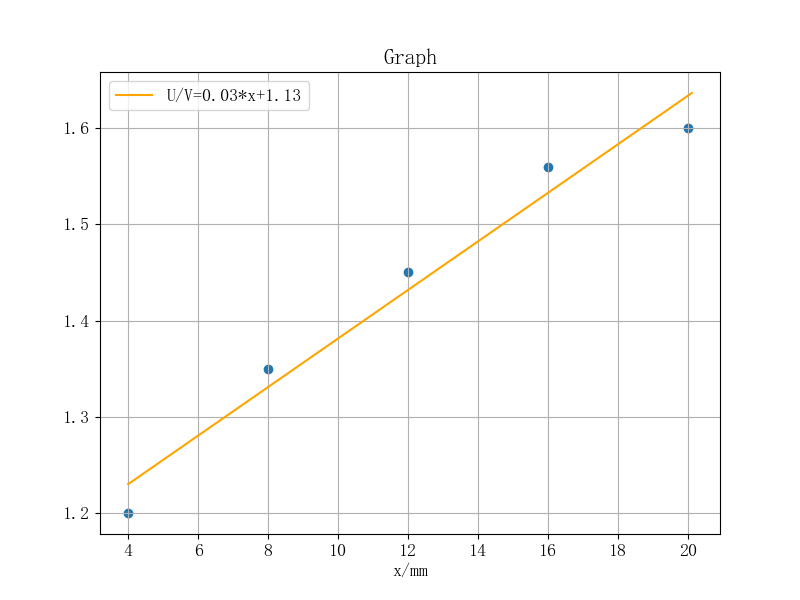
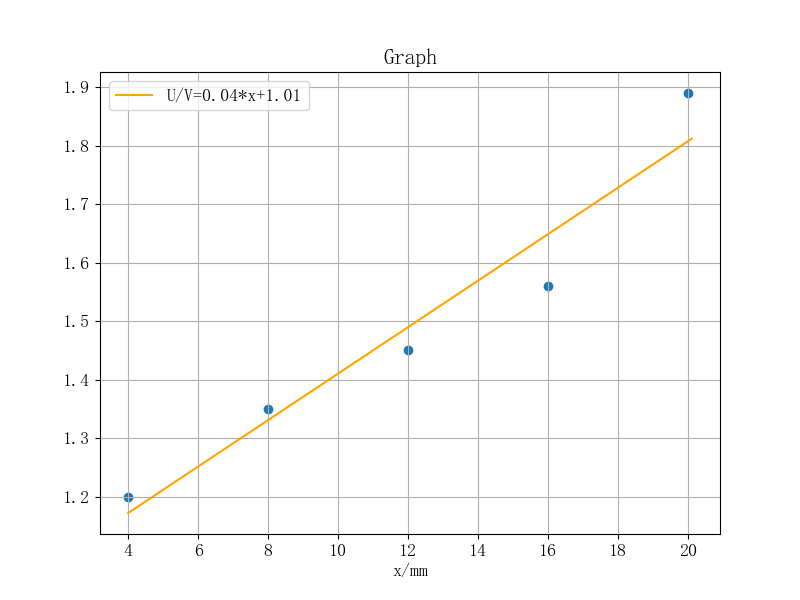
make a package

diff --git a/setup.py b/setup.py
@@ -1,0 +1,15 @@
+from setuptools import setup, find_packages
+
+setup(
+    name='myplotpkg',
+    version='0.1.0',
+    author='birchtree2',
+    author_email='',
+    description='A simple Python package for data visualization with matplotlib.',
+    packages=find_packages(),
+    install_requires=[
+       'numpy',
+       'matplotlib',
+       'scipy',
+    ],
+)

diff --git a/phyplot/plot.py b/phyplot/plot.py
@@ -75,7 +75,3 @@ class MyPlot:
         self.plot_table()
         self.plot_scatter_with_regression(fit_deg)
 
-x=[4,8,12,16,20]
-y=[1.2,1.35,1.45,1.56,1.6]
-m=MyPlot({'x/mm':x,'U/V':y},x_label='x/mm')
-m.plot()

diff --git a/demo.py b/demo.py
@@ -1,0 +1,6 @@
+from phyplot import plot
+x=[4,8,12,16,20]
+y=[1.2,1.35,1.45,1.56,1.89]
+fig=plot.MyPlot({'x/mm':x,'U/V':y},x_label='x/mm')
+fig.plot()
+

diff --git a/README.md b/README.md
@@ -1,0 +1,10 @@
+# phyplot
+
+`phyplot` is a simple Python package for data visualization with matplotlib.
+
+## Installation
+
+Clone this repository and then run:
+
+```bash
+pip install .
